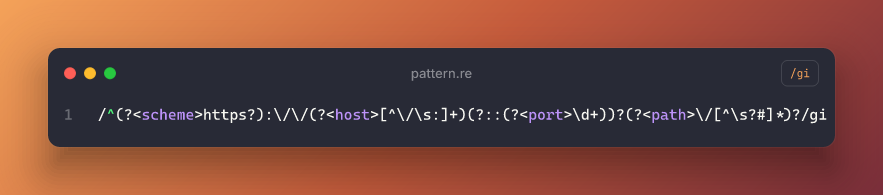
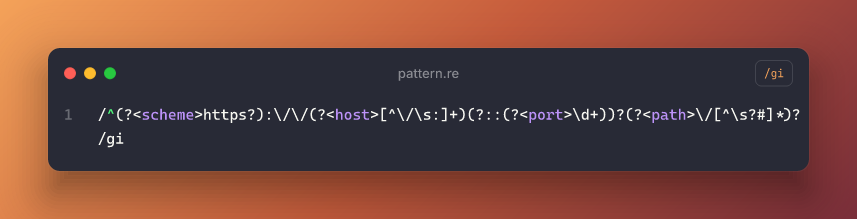
Cap card width at 768px by default; long lines wrap
A single long line (a URL in a terminal session, say) used to make the
whole image as wide as that line. Lines now soft-wrap so the card is at
most 768px wide unless --max-width changes the cap (0 = unlimited);
--width and --wrap still override it.

diff --git a/internal/settings/settings.go b/internal/settings/settings.go
@@ -35,10 +35,16 @@ type Settings struct {
 	ShowBadge bool
 	Flags     string // regex preset badge
 
-	Scale int // PNG pixel ratio
-	Wrap  int // soft-wrap at this many columns; 0 = off
-	Width int // fixed card width in px; 0 = fit content
+	Scale    int // PNG pixel ratio
+	Wrap     int // soft-wrap at this many columns; 0 = off
+	Width    int // fixed card width in px; 0 = fit content
+	MaxWidth int // wrap so the card is at most this wide; 0 = unlimited
 }
+
+// DefaultMaxWidth is the widest a card gets unless --width, --wrap or
+// --max-width says otherwise: long lines soft-wrap instead of producing a
+// screenshot as wide as the longest URL in a log.
+const DefaultMaxWidth = 768
 
 // Allowed values for the badge and prompt options.
 var (
@@ -67,6 +73,7 @@ func Defaults(p preset.Preset) Settings {
 		Status:          "200",
 		ShowBadge:       true,
 		Scale:           2,
+		MaxWidth:        DefaultMaxWidth,
 	}
 	if s.Language == "" {
 		s.Language = "javascript"
@@ -101,11 +108,14 @@ func (s *Settings) Validate() error {
 	if s.Scale < 1 || s.Scale > 8 {
 		return fmt.Errorf("scale %d out of range 1..8", s.Scale)
 	}
-	if s.Wrap < 0 || s.Width < 0 {
-		return fmt.Errorf("wrap and width must not be negative")
+	if s.Wrap < 0 || s.Width < 0 || s.MaxWidth < 0 {
+		return fmt.Errorf("wrap, width and max-width must not be negative")
 	}
 	if s.Wrap > 0 && s.Width > 0 {
 		return fmt.Errorf("use either --wrap or --width, not both")
+	}
+	if s.MaxWidth > 0 && s.MaxWidth < 200 {
+		return fmt.Errorf("max-width %d is too small (200 or more, or 0 for unlimited)", s.MaxWidth)
 	}
 	if !contains(Methods, s.Method) {
 		return fmt.Errorf("unknown method %q (one of %s)", s.Method, strings.Join(Methods, ", "))

diff --git a/cmd/codeshot/main.go b/cmd/codeshot/main.go
@@ -47,7 +47,7 @@ type usageError struct{ error }
 
 type options struct {
 	output, presetKey, lang, themeID, bg, font, title, prompt, method, status, flags, lineNumbers, list string
-	padding, fontSize, scale, wrap, width                                                               int
+	padding, fontSize, scale, wrap, width, maxWidth                                                     int
 	sample, noBG, noChrome, noShadow, noBadge, embedFonts, copy, showVersion                            bool
 }
 
@@ -79,6 +79,7 @@ func run(args []string, stdin io.Reader, stdout io.Writer) error {
 	fs.IntVar(&o.scale, "scale", 2, "PNG pixel ratio, 1..8")
 	fs.IntVar(&o.wrap, "wrap", 0, "soft-wrap lines at this many columns (0 = fit the longest line)")
 	fs.IntVar(&o.width, "width", 0, "fixed card width in px, wrapping to fit (0 = fit content)")
+	fs.IntVar(&o.maxWidth, "max-width", settings.DefaultMaxWidth, "wrap long lines so the card is at most this wide in px (0 = unlimited)")
 	fs.BoolVar(&o.embedFonts, "embed-fonts", true, "SVG output: embed the fonts as data URIs")
 	fs.BoolVar(&o.copy, "copy", false, "copy the PNG to the clipboard")
 	fs.StringVar(&o.list, "list", "", "print options and exit: themes, backdrops, fonts, languages, presets")
@@ -134,7 +135,7 @@ func run(args []string, stdin io.Reader, stdout io.Writer) error {
 	if seen["flags"] {
 		s.Flags = o.flags
 	}
-	s.Scale, s.Wrap, s.Width = o.scale, o.wrap, o.width
+	s.Scale, s.Wrap, s.Width, s.MaxWidth = o.scale, o.wrap, o.width, o.maxWidth
 
 	file := ""
 	if len(positional) == 1 && positional[0] != "-" {

diff --git a/internal/layout/layout_test.go b/internal/layout/layout_test.go
@@ -136,6 +136,25 @@ func TestComputeBadgeWidthMilestone(t *testing.T) {
 		t.Errorf("wrap rows=%d gutter=%d", len(L.Rows), len(L.Gutter))
 	}
 
+	// A very long line wraps at the default max width instead of widening the card.
+	in, s = fixture(t, "terminal", "$ curl https://example.com/"+strings.Repeat("abcdefghij", 30))
+	L, _ = Compute(in)
+	if L.Card.W > settings.DefaultMaxWidth || len(L.Rows) < 3 {
+		t.Errorf("default max width: card %v rows %d", L.Card.W, len(L.Rows))
+	}
+	s.MaxWidth = 0
+	in.Settings = s
+	L, _ = Compute(in)
+	if L.Card.W < 2000 || len(L.Rows) != 1 {
+		t.Errorf("unlimited: card %v rows %d", L.Card.W, len(L.Rows))
+	}
+	s.MaxWidth, s.Width = 0, 500
+	in.Settings = s
+	L, _ = Compute(in)
+	if L.Card.W != 500 || len(L.Rows) < 5 {
+		t.Errorf("fixed width wins: card %v rows %d", L.Card.W, len(L.Rows))
+	}
+
 	in, _ = fixture(t, "dev-milestone", "🎉 done")
 	L, _ = Compute(in)
 	if L.Chrome != nil || L.FontSize != 26 || L.LineHeight != 39 || !L.Center || L.Card.X != 64 || len(L.Gutter) != 0 {

diff --git a/internal/layout/layout.go b/internal/layout/layout.go
@@ -175,15 +175,20 @@ func Compute(in Input) (*Layout, error) {
 		badgeW = badge.Box.W
 	}
 
+	// Columns available at a given card width.
+	colsAt := func(width float64) int {
+		return max(1, int((width-2*CodePadX-gutterW)/cell))
+	}
 	cols := 0
+	capW := float64(MaxCardWidth)
 	switch {
 	case s.Wrap > 0:
 		cols = s.Wrap
 	case s.Width > 0:
-		cols = int((float64(s.Width) - 2*CodePadX - gutterW) / cell)
-		if cols < 1 {
-			cols = 1
-		}
+		cols = colsAt(float64(s.Width))
+	case s.MaxWidth > 0:
+		cols = colsAt(float64(s.MaxWidth))
+		capW = float64(s.MaxWidth)
 	}
 	rows := wrapAll(in.Lines, cols)
 
@@ -207,7 +212,7 @@ func Compute(in Input) (*Layout, error) {
 			titleW := math.Min(titleFont.Width(s.DisplayTitle(), TitleSize), MaxTitleRoom)
 			minW = math.Ceil(2*inset + titleW)
 		}
-		cardW = math.Min(math.Max(cardW, minW), MaxCardWidth)
+		cardW = math.Min(math.Max(cardW, minW), capW)
 	}
 
 	barH := 0.0

diff --git a/internal/settings/settings_test.go b/internal/settings/settings_test.go
@@ -9,6 +9,9 @@ import (
 func TestDefaults(t *testing.T) {
 	code, _ := preset.Get("code")
 	s := Defaults(code)
+	if s.MaxWidth != DefaultMaxWidth {
+		t.Errorf("max width default = %d", s.MaxWidth)
+	}
 	if s.Theme != "dracula" || s.Backdrop != "ember" || s.Font != "cascadia" || s.Language != "javascript" ||
 		s.Title != "snippet.js" || s.Padding != 48 || s.FontSize != 15 || !s.ShowChrome || !s.ShowLineNumbers ||
 		!s.Shadow || !s.ShowBackground || s.Prompt != "$" || s.Scale != 2 || s.Flags != "" {
@@ -51,6 +54,8 @@ func TestValidate(t *testing.T) {
 		func(s *Settings) { s.Wrap, s.Width = 80, 768 },
 		func(s *Settings) { s.Method = "TRACE" },
 		func(s *Settings) { s.Status = "418" },
+		func(s *Settings) { s.MaxWidth = 100 },
+		func(s *Settings) { s.MaxWidth = -1 },
 	}
 	for i, f := range bad {
 		s := Defaults(code)

diff --git a/README.md b/README.md
@@ -162,9 +162,11 @@ tree -L 2 --noreport | codeshot --preset project-structure --bg ink
 # Big, centered, no window: an announcement card
 echo "🎉 v2.0 is out" | codeshot --preset dev-milestone --bg dusk
 
-# Long lines? Wrap them, or fix the width
-codeshot --wrap 80 server.go
+# Long lines wrap so the card stays at most 768px wide. Change the cap, fix the width, or wrap by column
+codeshot --max-width 1000 server.go
 codeshot --width 900 server.go
+codeshot --wrap 80 server.go
+codeshot --max-width 0 server.go        # no cap: the card fits the longest line
 ```
 
 ## How it works
@@ -219,8 +221,9 @@ codeshot [flags] [FILE]        FILE omitted or "-" reads stdin; flags may come b
 --no-badge            api preset: hide the badge
 --flags STR           regex preset: badge flags (default gi)
 --scale N             PNG pixel ratio, 1..8 (default 2)
---wrap COLS           soft-wrap at this many columns (default: fit the longest line)
+--max-width PX        wrap long lines so the card is at most this wide (default 768; 0 = unlimited)
 --width PX            fixed card width, wrapping to fit
+--wrap COLS           soft-wrap at this many columns
 --embed-fonts BOOL    SVG: inline the fonts as data URIs (default true)
 --copy                copy the PNG to the clipboard (macOS, Wayland/X11 Linux, Windows)
 --list WHAT           themes, backdrops, fonts, languages, presets
@@ -245,6 +248,9 @@ Symbols and emoji fall back to DejaVu Sans Mono and monochrome Noto Emoji so the
 
 **How big is the binary, and why?**
 About 16 MB: the highlighter's lexers, the resvg WebAssembly rasterizer, and the fonts. That is the price of needing nothing else installed.
+
+**A log line was 400 characters. Why isn't my image 400 characters wide?**
+Long lines soft-wrap so the card is at most 768px wide, the width of a comfortable 80-column terminal. Raise the cap with <code>--max-width</code>, fix the width with <code>--width</code>, or pass <code>--max-width 0</code> to let the card grow to the longest line.
 
 **How long does a render take?**
 Roughly a second for a typical snippet at 2x. Bigger scales cost more pixels.
